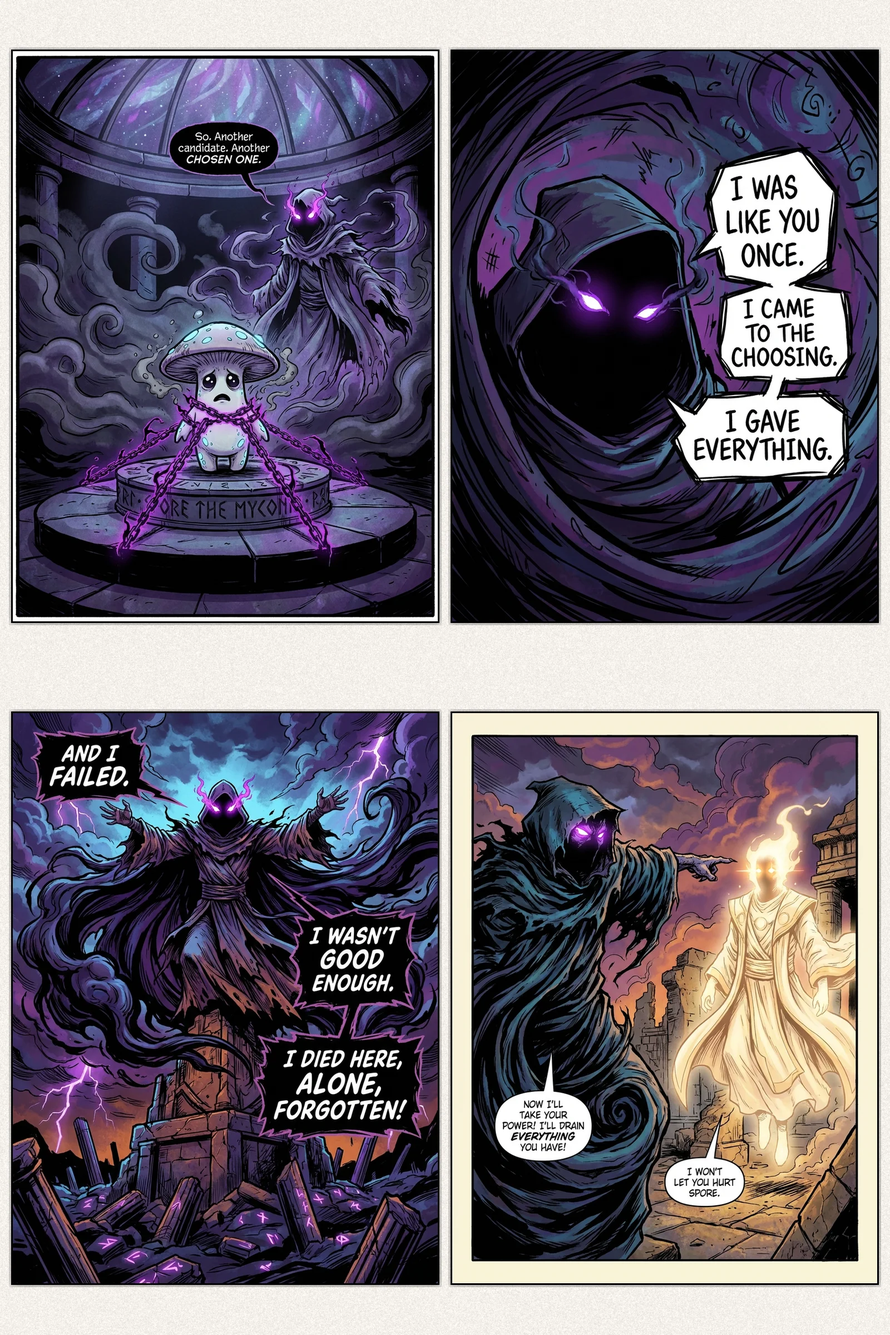
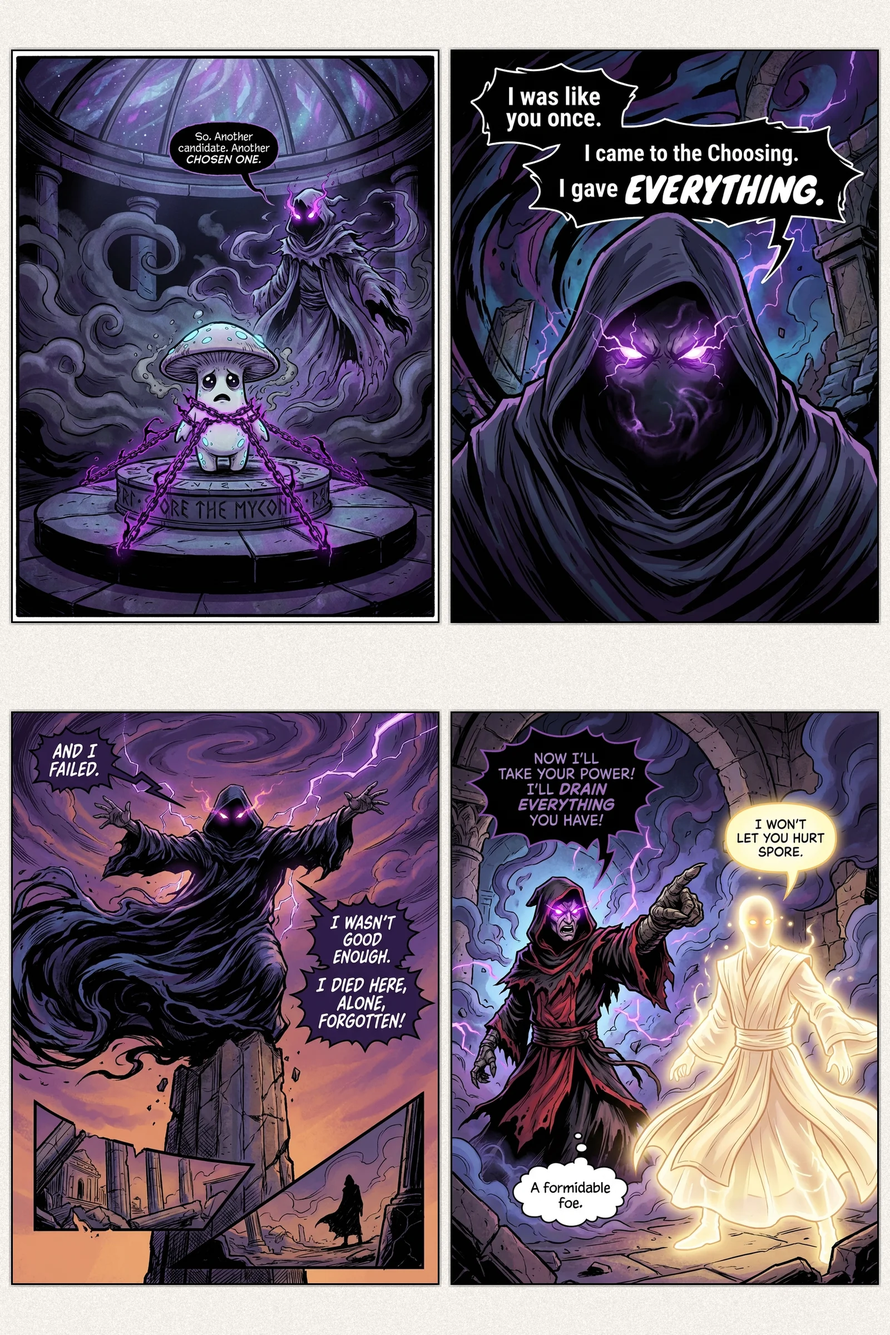
Update docs and regenerate page 20 with menacing Shadow Sorcerer
Documentation updates:
- Add CRITICAL section: Keep prompt field in sync with characters dict
- Update Shadow Sorcerer guidelines: menacing before defeat, freed after
- Remove old "sad ghost / Casper" guidance

Regenerated page 20 panels 2-4 with corrected menacing villain prompts

🤖 Generated with [Claude Code](https://claude.com/claude-code)

diff --git a/.claude/CLAUDE.md b/.claude/CLAUDE.md
@@ -237,6 +237,32 @@ Run `python scripts/utilities/fix_page_jsons.py` to automatically:
 - Add missing character/monster entries to panels (pulls from databases)
 - Add missing location fields (infers from visual text)
 
+### CRITICAL: Keep `prompt` Field in Sync with `characters` Dict!
+
+Each panel has TWO places where character descriptions appear:
+1. **`characters` dict** - Embedded descriptions (used by dynamic assembly)
+2. **`prompt` field** - Pre-assembled prompt text (used directly by generator)
+
+**The generator uses the `prompt` field if it exists!** If you update the `characters` dict but not the `prompt` field, the old descriptions will still be used.
+
+**When editing character descriptions:**
+1. Update the `characters` dict with the new description
+2. **ALSO update the `prompt` field** to match
+3. Delete the existing panel image to force regeneration
+4. Regenerate the panel
+
+**Example of mismatched fields (BUG):**
+```json
+{
+  "characters": {
+    "ShadowSorcerer": "Menacing hooded figure with BURNING PURPLE EYES..."  // NEW
+  },
+  "prompt": "...Spirit Wizard: sad ghost, NOT scary, like Casper..."  // OLD - still used!
+}
+```
+
+**Fix:** Update BOTH fields to have consistent descriptions.
+
 ### Database Files
 
 - `characters.json` - Player characters, NPCs, companions (17 entries)
@@ -247,17 +273,30 @@ Run `python scripts/utilities/fix_page_jsons.py` to automatically:
 
 ## Character Description Guidelines for Image Generation
 
-### Spirit Wizard (Final Boss)
-The antagonist should be rendered as a **gentle, sad ghost** - NOT a scary zombie:
+### Shadow Sorcerer (Final Boss)
+The antagonist has TWO states - genuinely menacing BEFORE defeat, then revealed as tragic AFTER:
 
+**BEFORE DEFEAT (Pages 20-21 panels 1-3):** Menacing hooded villain
 ```
-AN ETHEREAL SPIRIT - translucent and wispy like a gentle ghost, NOT scary or undead-looking.
-Abstract humanoid form in tattered ceremonial robes. Glowing purple eyes that look SAD and LONELY,
-not evil. Form is translucent, you can see through it. A TRAGIC spirit - once was a young person
-who failed the Choosing long ago. More like Casper than a zombie.
+A hooded figure in tattered robes. Darkness swirls around them like a living cloak.
+Eyes burn with cold purple fire. NOT a zombie, NOT undead flesh - a formless spirit
+of rage and bitterness. Deep hood conceals face - only BURNING PURPLE EYES visible.
+Genuinely threatening and powerful. Arms spread in dramatic villain pose.
 ```
 
-**Why:** The player is young; no scary zombies/undead. The Spirit Wizard is a tragic figure to be redeemed.
+**AFTER DEFEAT (Page 21 panel 4):** Revealed as cursed victim, now freed
+```
+The darkness FADES to reveal who they used to be - not a monster, just someone young,
+someone scared. Young face now visible as darkness dissolves. Purple fire dims to soft
+light, then goes out. Expression shows recognition and release. Quietly dissolving into
+motes of fading light. Not pitiful - just finally at peace.
+```
+
+**Why:**
+- Before defeat: A real threat, not a sad ghost. Makes victory meaningful.
+- After defeat: Reveals the curse has been broken - heroic rescue moment.
+- NOT a zombie or undead human - formless spirit with hood hiding face.
+- The player (young) shouldn't see scary undead, but the villain should feel dangerous.
 
 ### Lizardfolk Sorcerer (Hero Post-Transformation)
 When generating Lightsword after transformation, **NEVER use the name "Lightsword"** - it causes swords to appear:
